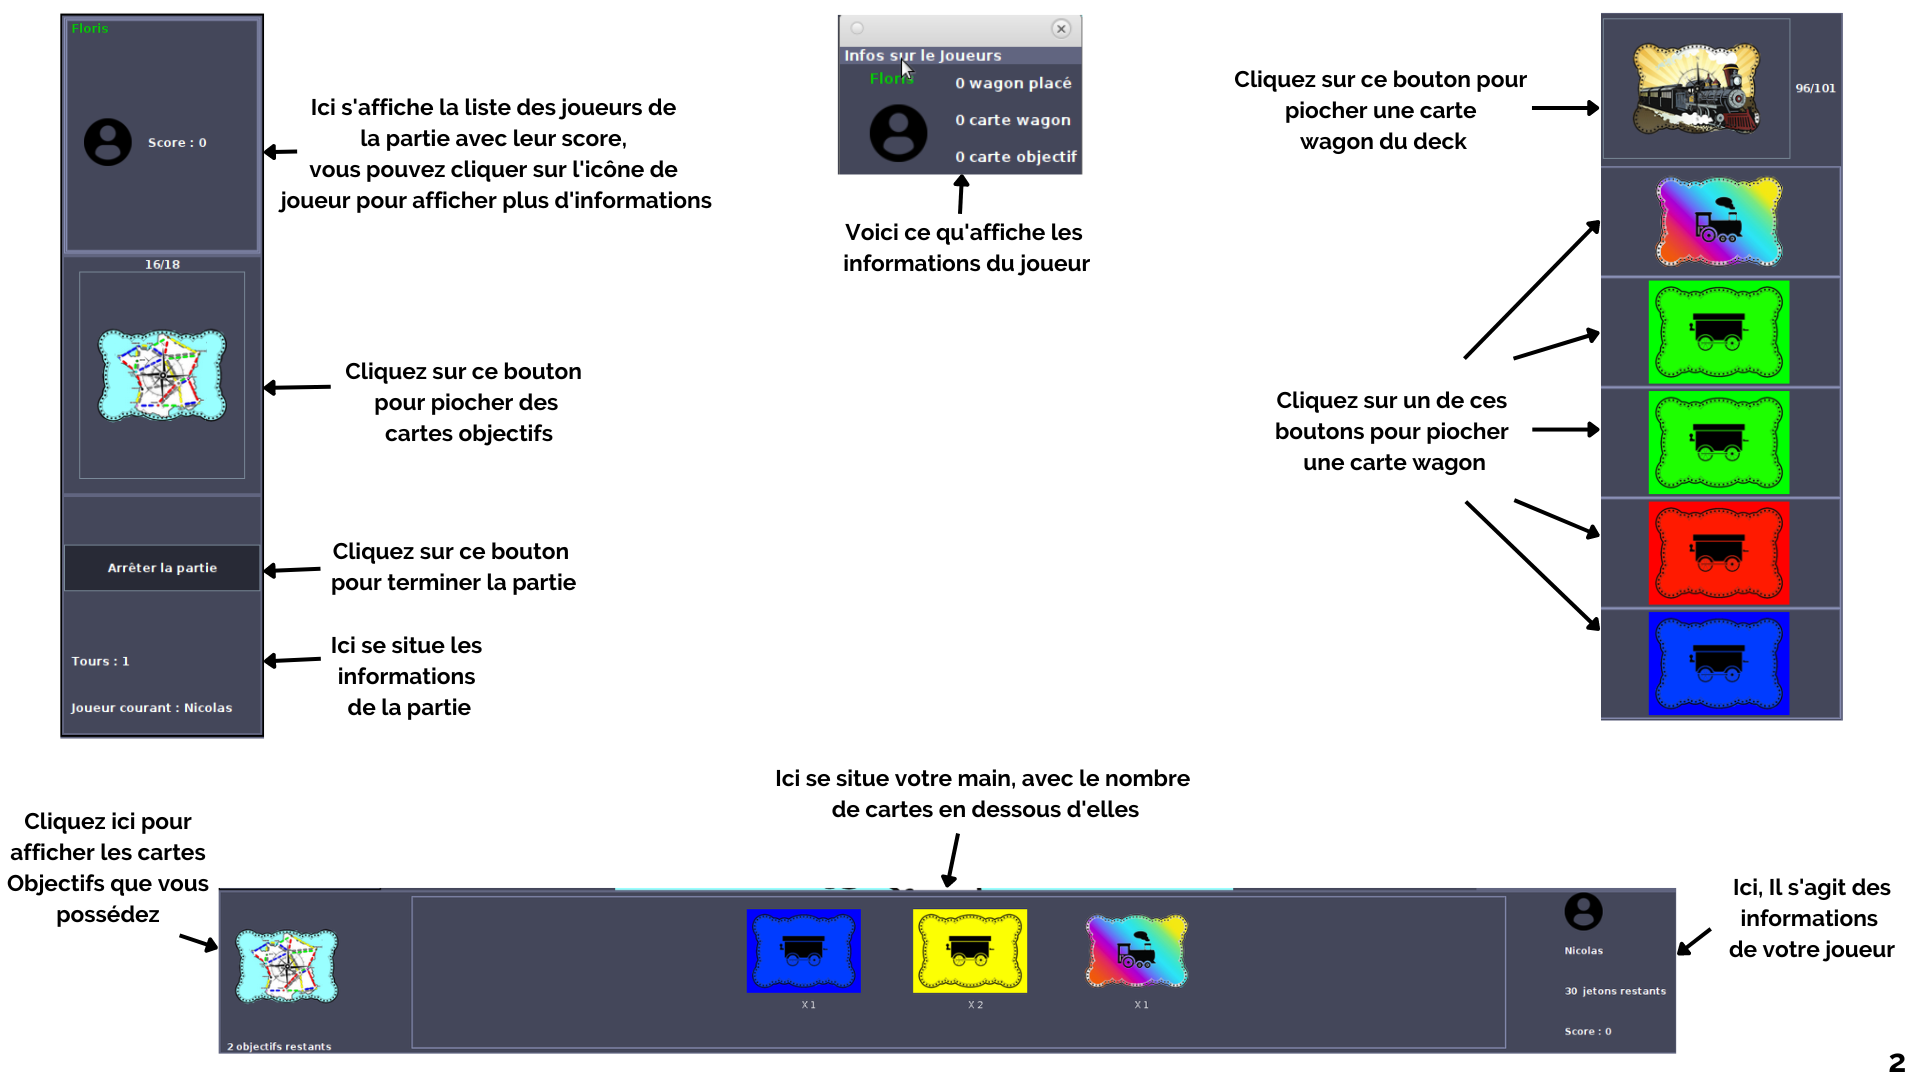
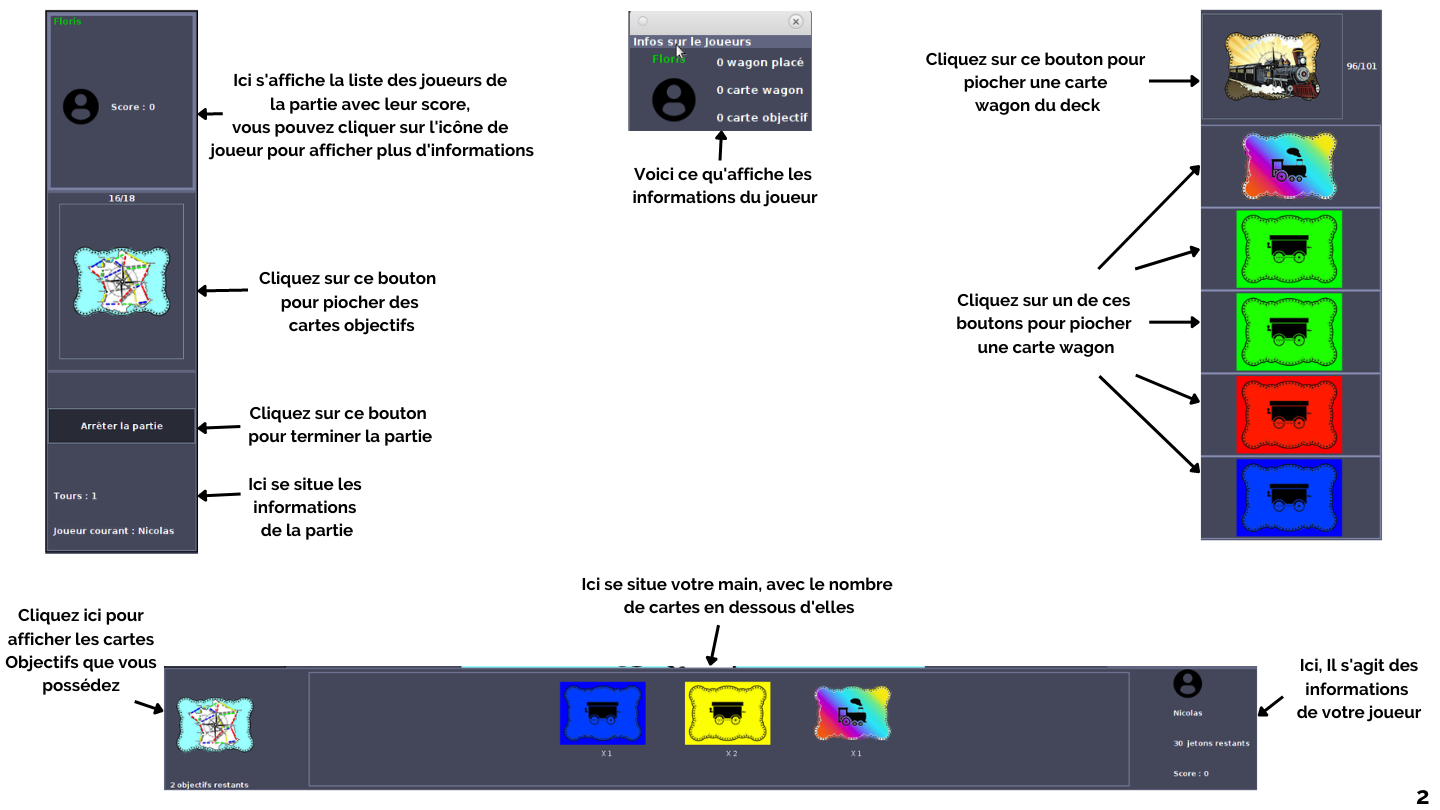
finition aide jeu

diff --git a/src/ihm/aide/PanelAideJeu.java b/src/ihm/aide/PanelAideJeu.java
@@ -1,7 +1,6 @@
 package ihm.aide;
 
 import java.awt.Color;
-import java.awt.BorderLayout;
 import java.awt.GridLayout;
 import java.awt.Dimension;
 
@@ -9,64 +8,36 @@ import javax.swing.JPanel;
 import javax.swing.ImageIcon;
 import javax.swing.JLabel;
 import javax.swing.JScrollPane;
-import javax.swing.ImageIcon;
-
 import controleur.Controleur;
 
 public class PanelAideJeu extends JPanel
 {
     private Controleur  ctrl;
     private JPanel      panelScroll;
-    
-    private JPanel      panelBas;
-    private JPanel      panelCentral;
-    private JPanel      panelGauche;
-    private JPanel      panelDroite;
 
     private JScrollPane scrollPanel;
-
-    private JLabel      lblPanelBas;
-    private JLabel      lblpanelCentral;
-    private JLabel      lblpanelGauche;
-    private JLabel      lblpanelDroite;
 
     public PanelAideJeu(Controleur ctrl)
     {
         this.ctrl = ctrl;
         this.setBackground(new Color(100,100,100));
-        //this.setLayout(new BorderLayout());
 
         this.panelScroll = new JPanel();
-        this.panelScroll.setLayout(new GridLayout(4, 1));
+        this.panelScroll.setLayout(new GridLayout(5, 1));
 
-        this.panelBas = new JPanel();
-        this.panelCentral = new JPanel();
-        this.panelGauche = new JPanel();
-        this.panelDroite = new JPanel();
-
-        this.lblPanelBas = new JLabel();
-        this.lblpanelCentral = new JLabel();
-        this.lblpanelGauche = new JLabel();
-        this.lblpanelDroite = new JLabel();
-
-        this.lblPanelBas.setIcon(new ImageIcon("./bin/donnees/images/aideJoueur/panelBas.png"));
-        this.lblpanelCentral.setIcon(new ImageIcon("./bin/donnees/images/aideJoueur/panelCentre.png"));
-        this.lblpanelGauche.setIcon(new ImageIcon("./bin/donnees/images/aideJoueur/panelGauche.png"));
-        this.lblpanelDroite.setIcon(new ImageIcon("./bin/donnees/images/aideJoueur/panelDroite.png"));
-
-        this.panelBas.add(this.lblPanelBas);
-        this.panelCentral.add(this.lblpanelCentral);
-        this.panelDroite.add(this.lblpanelGauche);
-        this.panelGauche.add(this.lblpanelDroite);
-
-        this.panelScroll.add(this.panelBas);
-        this.panelScroll.add(this.panelCentral);
-        this.panelScroll.add(this.panelDroite);
-        this.panelScroll.add(this.panelGauche);
+        for ( int cpt=1; cpt<= 5; cpt++ )
+        {
+            JPanel panel = new JPanel();
+            panel.setBackground(this.ctrl.getTheme().get("background"  ).get(0));
+            JLabel lblImage = new JLabel();
+            lblImage.setIcon(new ImageIcon("./bin/donnees/images/aideJoueur/" + cpt + ".png"));
+            panel.add(lblImage);
+            this.panelScroll.add(panel);
+        }
 
         /*JScrollPane */
         this.scrollPanel = new JScrollPane(this.panelScroll, JScrollPane.VERTICAL_SCROLLBAR_AS_NEEDED, JScrollPane.HORIZONTAL_SCROLLBAR_AS_NEEDED);
-        this.scrollPanel.setPreferredSize(new Dimension(650,500)); // 400 c'est trop, ça déborder du panel
+        this.scrollPanel.setPreferredSize(new Dimension(1440, 750)); 
         this.scrollPanel.getVerticalScrollBar().setUnitIncrement(5);
 
 
@@ -83,13 +54,5 @@ public class PanelAideJeu extends JPanel
 		/* Ce panel */
 		this.setBackground(background);
 		this.setForeground(labelForeColor);
-
-        this.panelBas.setBackground(labelForeColor);
-        this.panelCentral.setBackground(labelForeColor);
-        this.panelGauche.setBackground(labelForeColor);
-        this.panelDroite.setBackground(labelForeColor);
-
-		/* Label */
-        this.lblPanelBas.setOpaque(false);
     }
 }

diff --git a/src/ihm/accueil/MenuBarre.java b/src/ihm/accueil/MenuBarre.java
@@ -163,10 +163,10 @@ public class MenuBarre extends JMenuBar implements ActionListener
 				{
 					this.dialogAideJeu = new JDialog();
 
-					this.dialogAideJeu.setSize(750,900);
+					this.dialogAideJeu.setSize(1500,800);
 					this.dialogAideJeu.setTitle("Aide jeu");
-					this.dialogAideJeu.setLocation(200, 300);
-					this.dialogAideJeu.setResizable(false);
+					this.dialogAideJeu.setLocation(10, 10);
+					this.dialogAideJeu.setResizable(true);
 					this.dialogAideJeu.add(this.panelAideJeu);
 					this.dialogAideJeu.setVisible(true);
 				}

diff --git a/src/ihm/attente/PanelPreviewMappe.java b/src/ihm/attente/PanelPreviewMappe.java
@@ -47,7 +47,6 @@ public class PanelPreviewMappe extends JPanel implements MouseWheelListener, Mou
 		// Création des composants
 		this.panelImage = new PanelImage(ctrl, this.taillePlateau);
 
-
 		// Ajout des composants
 		this.add(this.panelImage);
 
